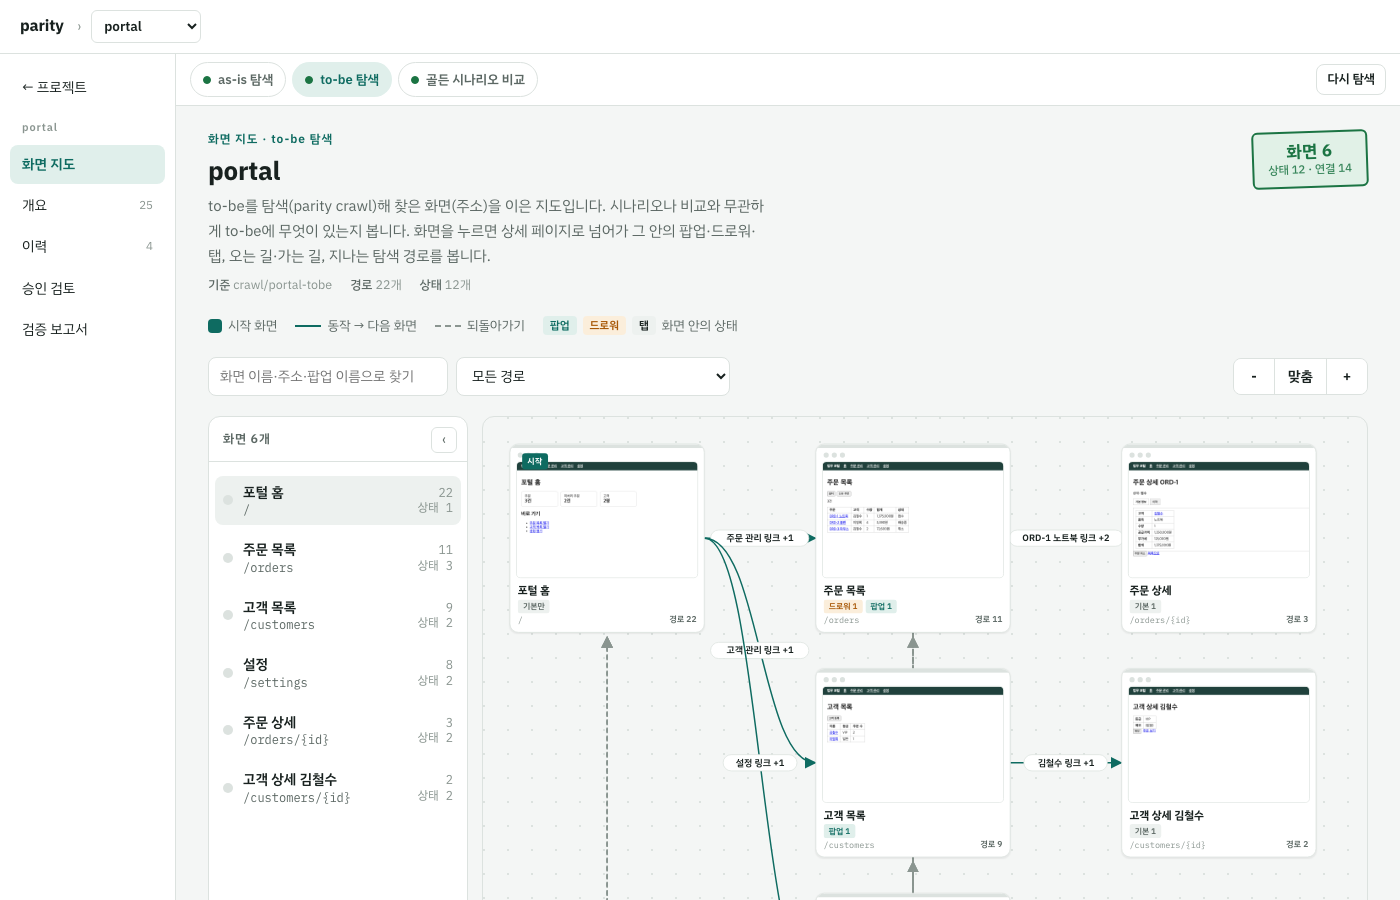
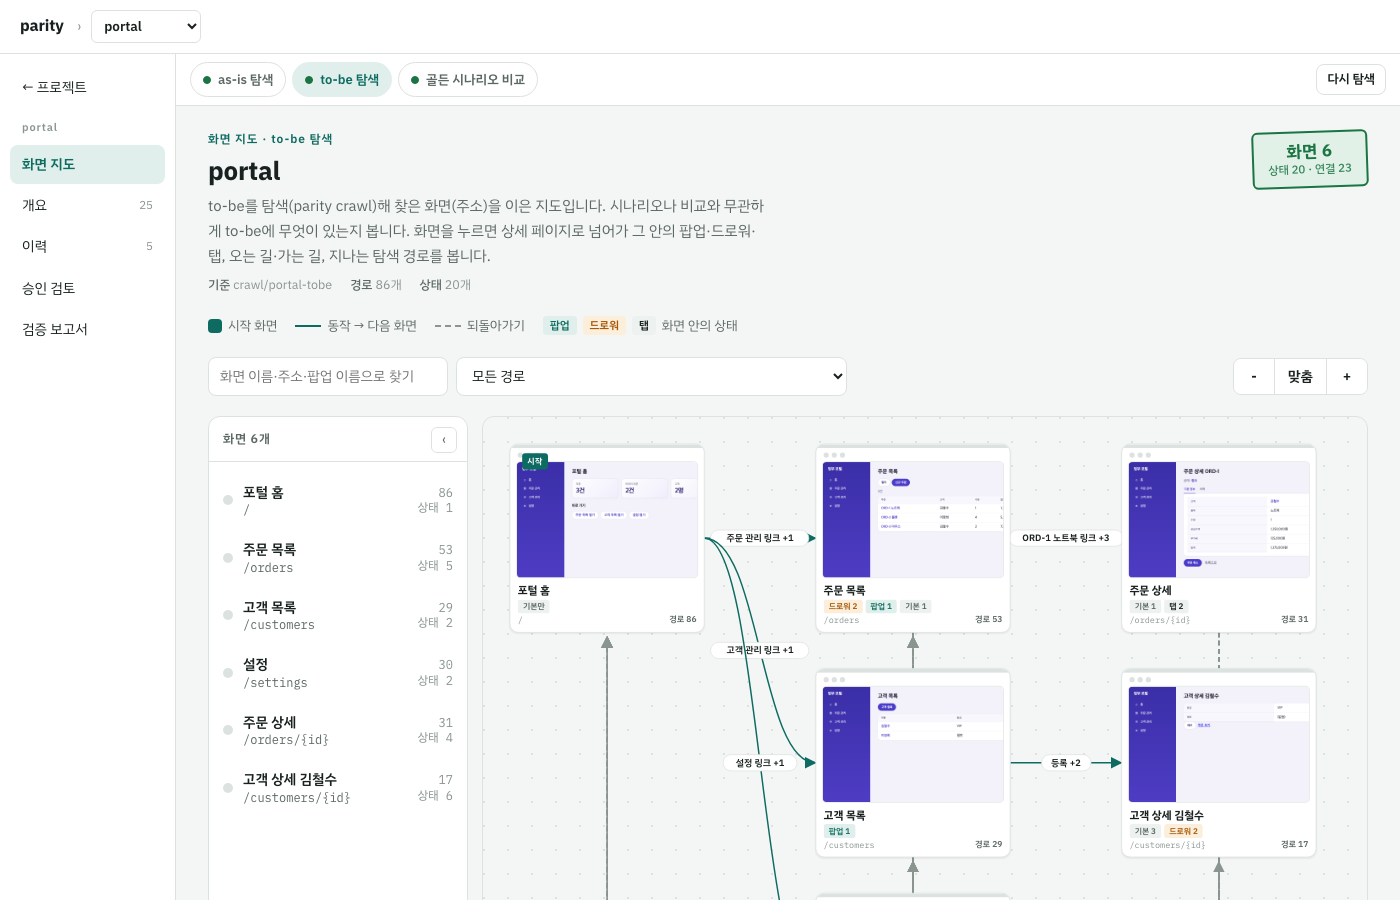
포털 데모에 새 룩 to-be 변형(tobe-modern, 8825): 겉모습만 다르고 글자·역할·동작은 같음
- portal_app.py: 왼쪽 사이드바(aria-hidden 아이콘), 보라 계열 팔레트, 다른 글꼴, 카드·알약 버튼, 밑줄 탭, 둥근 표·팝업·드로워.
  스냅샷 비교에 들어가는 것(글자, 요소 이름·역할·순서, 주소, 제목, 대화상자)은 그대로 → 승인 골든과 비교 25개 모두 같음 (runs/portal/20260926-084336)
- parity.json 포털 to-be 주소를 8825로. to-be 탐색 지도도 새 룩으로 (crawl/portal-tobe 깊이 3)
- 문서·샘플: 변형 목록·결과 표, portal-asis.png / portal-tobe-modern.png, ui-map-tobe(-detail).png

diff --git a/demo-app/portal_app.py b/demo-app/portal_app.py
@@ -5,6 +5,8 @@ python demo-app/portal_app.py <port> tobe          to-be. as-is 동작을 버그
 python demo-app/portal_app.py <port> tobe-fixed    as-is 버그 두 개를 "고쳐버린" to-be (비교에서 잡혀야 하는 것)
 python demo-app/portal_app.py <port> tobe-renamed  라벨 변경("신규 주문"→"주문 등록", "수량"→"주문 수량") + 부가세 반올림. 라벨 뒤에 숨은 동작 차이까지 도달하는지
 python demo-app/portal_app.py <port> tobe-custom   tobe와 같은 동작, 신규 주문 팝업의 품목만 커스텀 드롭다운 (div role=combobox + listbox, React/MUI 방식)
+python demo-app/portal_app.py <port> tobe-modern   tobe와 같은 동작·같은 글자·같은 역할, 겉모습만 새로 만든 to-be: 왼쪽 사이드바, 다른 색·글꼴, 카드·알약 버튼, 밑줄 탭,
+                                                   아이콘(aria-hidden). 실제 전환처럼 "화면은 달라 보여도 동작은 같다"를 보여 준다 → 비교 25개 모두 같음
 
 라우트
   /                  홈 (요약 카드, 메뉴)
@@ -65,9 +67,40 @@ def L(label: str) -> str:
     return {"신규 주문": "주문 등록", "수량": "주문 수량"}.get(label, label) if VARIANT == "tobe-renamed" else label
 
 
+# tobe-modern: 겉모습만 다른 to-be. 스냅샷 비교에 들어가는 것(글자, 요소 이름·역할·순서, 주소, 제목, 대화상자)은 그대로 두고 CSS와 aria-hidden 아이콘만 다르다
+CSS_MODERN = ("[hidden]{display:none!important}*{box-sizing:border-box}body{margin:0;font-family:'Pretendard','Inter',-apple-system,'Apple SD Gothic Neo','Malgun Gothic',system-ui,sans-serif;"
+              "color:#1c1b2e;background:#f3f2fa;display:flex;min-height:100vh}"
+              "header{width:224px;flex:none;background:linear-gradient(180deg,#3b2fa8,#5b46d6);color:#fff;padding:22px 16px;display:flex;flex-direction:column;gap:6px}"
+              "header b{font-size:18px;letter-spacing:-.01em;margin:0 8px 18px;display:block}header a{color:#fff;text-decoration:none;padding:9px 12px;border-radius:10px;display:flex;gap:9px;align-items:center;font-size:14.5px;opacity:.86}"
+              "header a:hover{background:rgba(255,255,255,.14);opacity:1}header a i{font-style:normal;width:18px;text-align:center;opacity:.9}"
+              "main{flex:1;padding:30px 36px;max-width:1100px}h1{font-size:26px;font-weight:700;margin:0 0 18px;letter-spacing:-.02em}h2{font-size:17px;margin:0 0 12px}"
+              "table{border-collapse:separate;border-spacing:0;width:100%;background:#fff;border-radius:14px;box-shadow:0 1px 3px rgba(28,27,46,.08);overflow:hidden}"
+              "th{font-size:11.5px;text-transform:uppercase;letter-spacing:.08em;color:#6f6c8c;background:#f8f7fd;padding:11px 16px;text-align:left;border-bottom:1px solid #e6e4f2}"
+              "td{padding:12px 16px;border-bottom:1px solid #eeecf6;text-align:left}tr:last-child td{border-bottom:0}tbody tr:hover td{background:#faf9ff}td a{color:#4a3bc9;font-weight:600;text-decoration:none}"
+              ".cards{display:grid;grid-template-columns:repeat(3,minmax(140px,220px));gap:14px;margin-bottom:26px}"
+              ".card{background:linear-gradient(135deg,#fff,#f1eefc);border:1px solid #e3dff5;border-radius:16px;padding:16px 18px;color:#6f6c8c;font-size:13px;box-shadow:0 1px 3px rgba(28,27,46,.06)}"
+              ".card b{display:block;font-size:30px;color:#2d2470;margin-top:6px;letter-spacing:-.02em}"
+              "ul{padding-left:0;list-style:none;display:flex;gap:10px;flex-wrap:wrap}main>ul a,li>a{display:inline-block;background:#fff;border:1px solid #e3dff5;border-radius:999px;padding:8px 16px;color:#4a3bc9;text-decoration:none;font-weight:600}"
+              "button{font:inherit;font-size:14px;border:1px solid #d9d5ee;background:#fff;color:#2d2470;padding:8px 16px;border-radius:999px;cursor:pointer;font-weight:600}"
+              "button:hover{border-color:#5b46d6}.toolbar{display:flex;gap:8px;margin-bottom:16px;align-items:center}.toolbar button:last-child,button[type=submit]{background:#4a3bc9;color:#fff;border-color:#4a3bc9}"
+              "p{color:#6f6c8c;margin:0 0 12px}strong{color:#4a3bc9}"
+              "[role=dialog]{position:fixed;inset:0;background:rgba(28,27,46,.45);backdrop-filter:blur(3px);display:grid;place-items:center}"
+              "[role=dialog]>div{background:#fff;padding:24px 28px;border-radius:18px;min-width:360px;box-shadow:0 30px 80px rgba(28,27,46,.35)}"
+              "aside{position:fixed;right:0;top:0;bottom:0;width:320px;background:#fff;box-shadow:-12px 0 40px rgba(28,27,46,.18);padding:24px 26px;border-left:0}"
+              "[role=tablist]{display:flex;gap:18px;margin:14px 0 0;border-bottom:2px solid #e6e4f2}[role=tab]{border:0;background:none;border-radius:0;padding:8px 2px 10px;margin-bottom:-2px;color:#6f6c8c;border-bottom:2px solid transparent}"
+              "[role=tab][aria-selected=true]{color:#4a3bc9;border-bottom-color:#4a3bc9}[role=tabpanel]{background:#fff;border-radius:0 0 14px 14px;padding:16px 18px;box-shadow:0 1px 3px rgba(28,27,46,.08);margin-bottom:16px}"
+              "[role=tabpanel] table{box-shadow:none;border-radius:0}label{display:block;margin:10px 0;font-size:14px;color:#3d3a5c}"
+              "input,select,textarea{font:inherit;padding:8px 10px;border:1px solid #d9d5ee;border-radius:10px;background:#fbfbfe;min-width:180px}form>a{margin-left:10px;color:#6f6c8c}")
+ICONS = {"홈": "⌂", "주문 관리": "▤", "고객 관리": "◉", "설정": "⚙"}
+
+
 def page(title: str, body: str) -> bytes:
-    nav = "<header><b>업무 포털</b><a href='/'>홈</a><a href='/orders'>주문 관리</a><a href='/customers'>고객 관리</a><a href='/settings'>설정</a></header>"
-    return (f"<!doctype html><html lang='ko'><head><meta charset='utf-8'><title>{title}</title><style>{CSS}</style><script>{JS}</script></head>"
+    if VARIANT == "tobe-modern":  # 사이드바: 같은 글자·같은 순서의 링크. 아이콘은 aria-hidden이라 접근성 이름에 들어가지 않는다
+        links = "".join(f"<a href='{h}'><i aria-hidden='true'>{ICONS[t]}</i>{t}</a>" for h, t in (("/", "홈"), ("/orders", "주문 관리"), ("/customers", "고객 관리"), ("/settings", "설정")))
+        nav, css = f"<header><b>업무 포털</b>{links}</header>", CSS_MODERN
+    else:
+        nav, css = "<header><b>업무 포털</b><a href='/'>홈</a><a href='/orders'>주문 관리</a><a href='/customers'>고객 관리</a><a href='/settings'>설정</a></header>", CSS
+    return (f"<!doctype html><html lang='ko'><head><meta charset='utf-8'><title>{title}</title><style>{css}</style><script>{JS}</script></head>"
             f"<body>{nav}<main>{body}</main></body></html>").encode()
 
 
@@ -255,6 +288,6 @@ class Handler(BaseHTTPRequestHandler):
 if __name__ == "__main__":
     port = int(sys.argv[1]) if len(sys.argv) > 1 else 8820
     VARIANT = sys.argv[2] if len(sys.argv) > 2 else "asis"
-    assert VARIANT in ("asis", "tobe", "tobe-fixed", "tobe-renamed", "tobe-custom"), VARIANT
+    assert VARIANT in ("asis", "tobe", "tobe-fixed", "tobe-renamed", "tobe-custom", "tobe-modern"), VARIANT
     print(f"portal demo ({VARIANT}) on http://127.0.0.1:{port}/")
     ThreadingHTTPServer(("127.0.0.1", port), Handler).serve_forever()

diff --git a/docs/samples/README.md b/docs/samples/README.md
@@ -35,7 +35,7 @@ HTML은 파일로 바로 열린다(서버 없음). 단계 번호는 [MIGRATION.m
 ## 이 샘플이 보여주는 상황
 
 - **메인 데모 = 포털** (`demo-app/portal_app.py`, 8820~8824): 시나리오 25개(crawl 초안 18 + 업무 값 7)를 as-is에서 기록해 사람이 승인(east, 2026-09-25 22:43).
-  비교 4회가 `runs/portal/`에 이력으로 있다: `tobe-fixed` 2 다름(부가세 절사→반올림, 취소된 주문 재취소 차단) → `tobe-renamed` 19 다름(라벨 변경, 이름 매핑 없이) → `tobe-custom` 모두 같음 → `tobe` 모두 같음.
+  비교 5회가 `runs/portal/`에 이력으로 있다: `tobe-fixed` 2 다름(부가세 절사→반올림, 취소된 주문 재취소 차단) → `tobe-renamed` 19 다름(라벨 변경, 이름 매핑 없이) → `tobe-custom` 모두 같음 → `tobe` 모두 같음 → `tobe-modern`(8825, 사이드바·보라색의 새 룩 [portal-tobe-modern.png](portal-tobe-modern.png)) 모두 같음 — 겉모습이 달라도 글자·동작이 같으면 통과한다.
   결함 주입은 승인본 기준 148개 중 144개 탐지(97%), 생존 4개는 탭 없는 화면의 탭 코드(동등 결함) — [mutation-sample.json](mutation-sample.json). 검증 보고서 [verification-sample.html](verification-sample.html)은 `tobe-fixed` 실행으로 만든 것: 판정 **신뢰 가능**, 다른 점 2건.
   실행 원장·JUnit·실패 화면 샘플도 같은 실행(2026-09-25 22:45, 8822)에서 왔다.
 - **신뢰 가능 ≠ 같음**: 보고서의 판정은 승인본·전수 실행·탐지율이 모두 ✅라는 뜻이다. 포털 `tobe-fixed`처럼 다른 점 2건이 있어도 "그 결과를 믿어도 된다"고 말할 뿐이다.

diff --git a/README.md b/README.md
@@ -77,7 +77,7 @@ e2e/<app>/         Playwright 테스트            golden/<app>/   승인된 오
 parity.json        프로젝트 등록부: as-is/to-be 소스 위치·실행 주소 (parity ui 첫 화면에서 추가·설정)
 runs/<app>/        to-be 비교 실행 원장 (실행마다 JSON + JUnit·스크린샷 사본, mutations/ 결함 주입 결과) → parity ui / status / catalog
 scenarios/         YAML 시나리오 (스모크, 데모)  examples/       YAML 전환 예제, 비교 실험 코드, crawl 픽스처
-demo-app/          데모 서버. 포털(메인 데모: 라우트 6개 + 팝업·드로워·탭, as-is/to-be 변형 4개), 레거시 주문(frameset 특수 케이스), 예약(crawl), ERP 화면 12개(스모크)
+demo-app/          데모 서버. 포털(메인 데모: 라우트 6개 + 팝업·드로워·탭, as-is/to-be 변형 5개 — 새 룩 tobe-modern 포함), 레거시 주문(frameset 특수 케이스), 예약(crawl), ERP 화면 12개(스모크)
 tools/             explore.py (요소 이름 탐색), guard_oracle.py (Claude Code hook: golden/ 편집·승인 차단)
 .claude/skills/    e2e-tests, smoke
 ```
